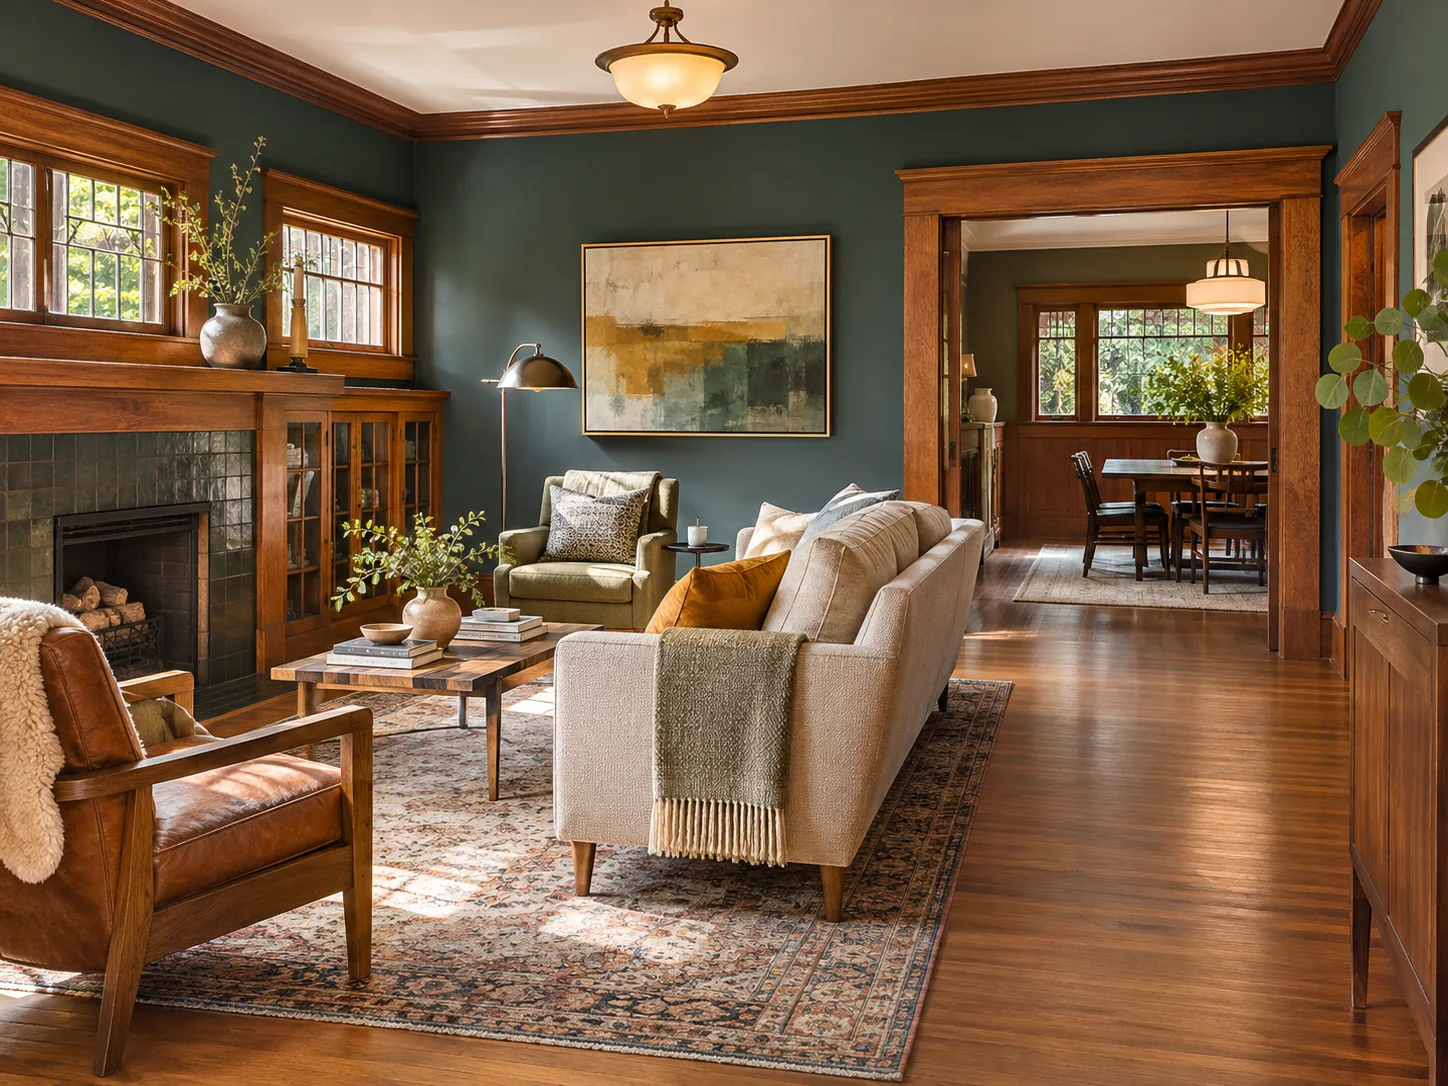
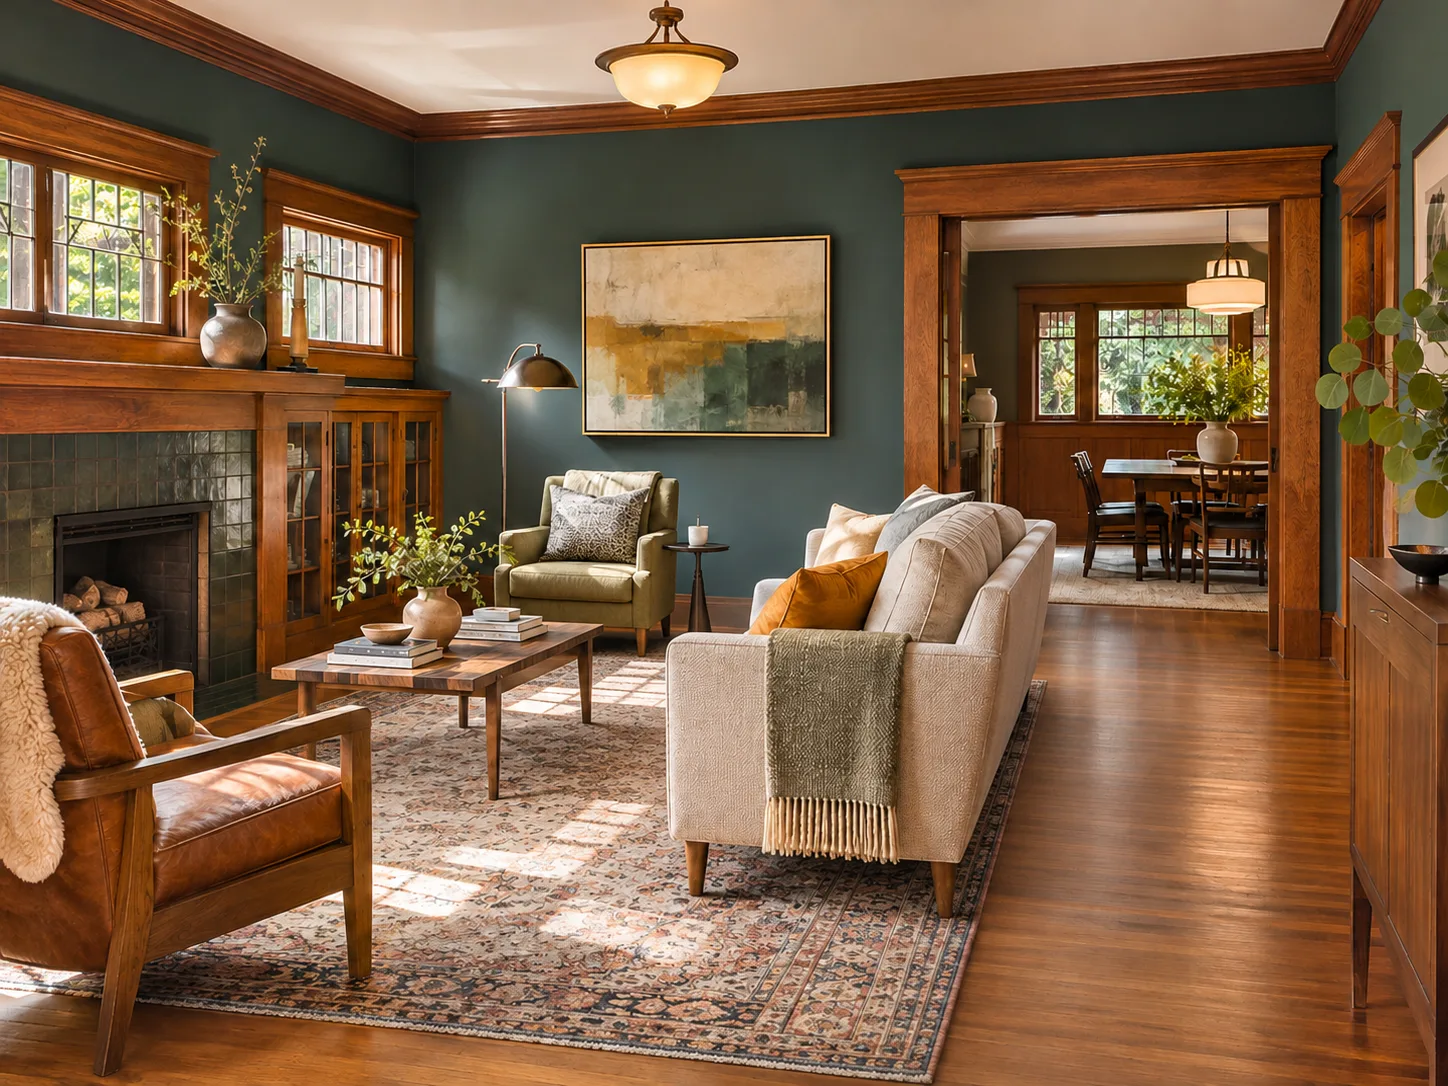
Adjust Spatial Planning hero sofa position

diff --git a/docs/design-library/SPATIAL-PLANNING-FLOW-REVIEW.md b/docs/design-library/SPATIAL-PLANNING-FLOW-REVIEW.md
@@ -6,6 +6,8 @@ Preview: `http://127.0.0.1:3002/design-library/design-principles-and-philosophie
 
 The article has 2,437 prose words and uses all eight supplied PNGs, converted to WebP in the private `design-principles/spatial-planning-circulation-flow` asset folder. The Craftsman living/dining view is the hero. The entry illustrates a clear destination; the supplied comparison graphic illustrates a blocked route and a better furniture arrangement; layered rooms show connection with distinct zones; kitchen, dining, and bathroom scenes illustrate their corresponding planning sections; and the second Craftsman living room supports the renovation discussion. The images are conceptual examples, not completed Studio Dee projects. The comparison and kitchen images include small embedded labels supplied with the artwork; their captions explain the intended lesson without relying on the labels.
 
+Hero revision on 2026-11-09: after reviewing the original, Jim noted that the dining-room route looked too wide while the seating group felt compressed. A new image version shifts the cream sofa modestly right, toward that route, leaving a believable path and more room around the coffee table. The original supplied PNG is retained beside the new `Craftsman Living Room with Dining View - sofa right.png`; the article's `spatial-hero.webp` now derives from the revised image. The edit was made with built-in image generation using the original PNG as the edit target and instructions to preserve the surrounding architecture and furnishings.
+
 The source's image briefs and editorial appendix are excluded from the article body. The site supplies its existing footer CTA. Kitchen and seating dimensions were checked against the National Kitchen & Bath Association's original planning guidelines, and accessible route and doorway dimensions against the U.S. Access Board's standards. The article distinguishes planning recommendations and ADA reference dimensions from requirements applicable to a particular private home.
 
 Focused verification on 2026-11-09: typecheck passed; focused image and article-coherence checks passed; the article, category, and hero image returned 200 on localhost; rendered HTML included all eight distinct images. The known full-suite failure from a missing coffered-ceilings image remains outside this article. No full build or deployment was run.
